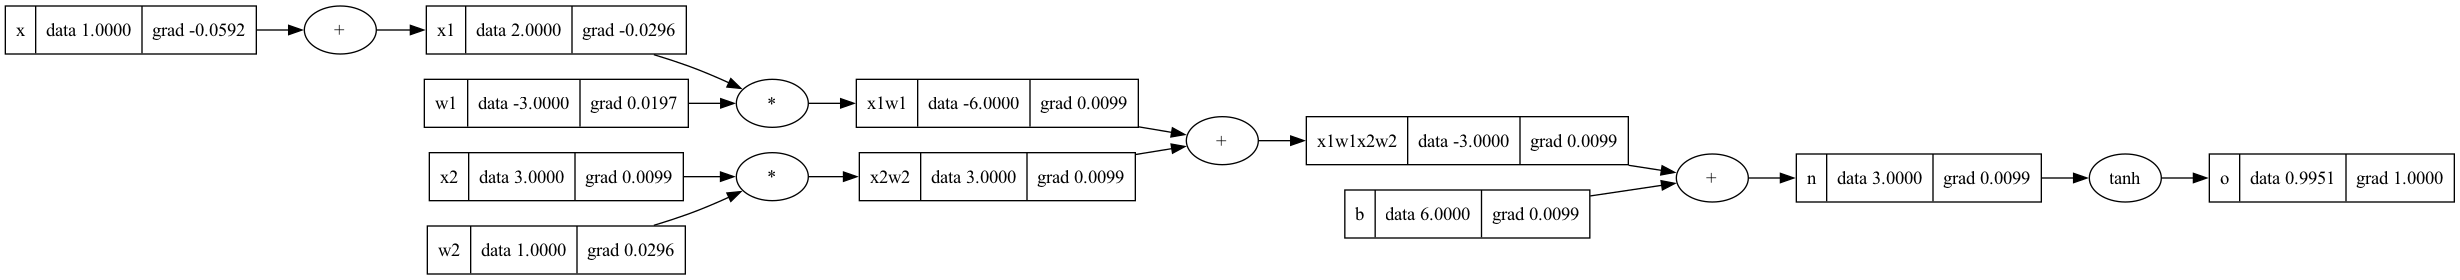
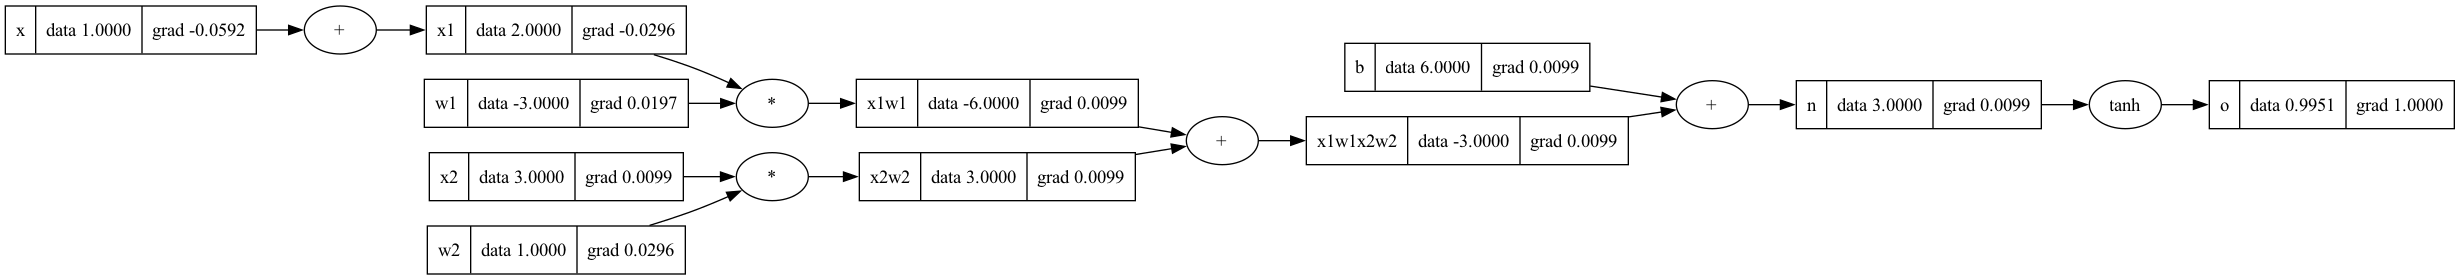
task 4.half done

diff --git a/hafta_2_backpropagation/micrograd_from_scratch.py b/hafta_2_backpropagation/micrograd_from_scratch.py
@@ -3,6 +3,7 @@ from threading import local
 import numpy as np
 import matplotlib.pyplot as plt
 from graphviz import Digraph
+from numpy._core import ubyte
 
 # for graph visualization stuff
 def trace(root):
@@ -43,9 +44,11 @@ class Value:
         self.label = label
 
     def __repr__(self) -> str:
-        return f"Value(data={self.data}, _op={self._op}, _prev={self._prev}, label={self.label})"
+        return f"Value(data={self.data})" ###, _op={self._op}, _prev={self._prev}, label={self.label})"
 
     def __add__(self, other):
+        # for addition to integer by value
+        other = other if isinstance(other, Value) else Value(other)
         out = Value(self.data + other.data, (self, other), '+', label='')
         def _backward():
             self.grad += out.grad * 1.0
@@ -54,6 +57,8 @@ class Value:
         return out
 
     def __mul__(self, other):
+        # for multiplication to integer by value
+        other = other if isinstance(other, Value) else Value(other)
         out = Value(self.data * other.data, (self, other), '*', label='')
         def _backward():
             self.grad += out.grad * other.data
@@ -61,16 +66,79 @@ class Value:
         out._backward = _backward
         return out
 
+    # reverse multiplication for error handling
+    def __rmul__(self, other):
+        return self * other
+
+
+    def __neg__(self):
+        return self * -1
+
+    def __sub__(self, other):
+        return self + (-other)
+
+    def __truediv__(self, other):
+        return self * other**-1
+
     def tanh(self):
         x = self.data
         t = (math.exp(2*x) - 1)/(math.exp(2*x) + 1)
         out = Value(t, (self,), 'tanh', label='')
         def _backward():
-            self.grad = out.grad * (1 - t**2)
+            self.grad += out.grad * (1 - t**2)
         out._backward = _backward
         return out
 
 
+    def exp(self):
+        out = Value(math.exp(self.data), (self,), 'exp', label='')
+        def _backward():
+            self.grad += out.grad * math.exp(self.data)
+        out._backward = _backward
+        return out
+
+    def __pow__(self, other):
+        out = Value(self.data ** other, (self,), f'**{other}', label='')
+        def _backward():
+            self.grad += out.grad * other * self.data ** (other - 1)
+        out._backward = _backward
+        return out
+
+    def __radd__(self, other):
+        return self + other
+
+    def __rtruediv__(self, other):
+        return other * self**-1
+
+
+    def backward(self):
+        topo = []
+        visited = set()
+
+        def build_topo(v):
+            if v not in visited:
+                visited.add(v)
+                for child in v._prev:
+                    build_topo(child)
+                topo.append(v)
+        build_topo(self)
+        self.grad = 1.0
+        for node in reversed(topo):
+            node._backward()
+
+    def zero_grad(self):
+        topo = []
+        visited = set()
+
+        def build_topo(v):
+            if v not in visited:
+                visited.add(v)
+                for child in v._prev:
+                    build_topo(child)
+                topo.append(v)
+        build_topo(self)
+        for node in reversed(topo):
+            node.grad = 0.0
 
 # .grad değerlerini hesaplamak için finite difference yöntemi
 def local_variable():
@@ -99,6 +167,13 @@ def local_variable():
     L2 = L.data
 
     print((L2 - L1)/h)
+    p = Value(2.0)
+    q = Value(3.0)
+    print(p * q)
+    print(p / q)
+    print(q / p)
+    print(p - 1)
+    print(q + 1)
     L.grad = 1.0
     f.grad = -2.0
     e.data = -7.0
@@ -121,21 +196,22 @@ def noron():
     x1w1 = x1 * w1; x1w1.label = 'x1w1'
     x2w2 = x2 * w2; x2w2.label = 'x2w2'
     x1w1x2w2 = x1w1 + x2w2; x1w1x2w2.label = 'x1w1x2w2'
-    n = x1w1x2w2 + b; n.label = 'n'
-    o = n.tanh(); o.label = 'o'
-    o.grad = 1.0
-    o._backward()
-    n._backward()
-    x1w1x2w2._backward()
-    x2w2._backward()
-    x1w1._backward()
-    b._backward()
-    w2._backward()
-    w1._backward()
-    x1._backward()
-    x2._backward()
-    draw_dot(o, filename='output/noron')
+    #n = x1w1x2w2 + b; n.label = 'n'
+    n = x1w1
+    # -----
+    e = (2*n).exp(); e.label = 'e'
+    o = (e - 1) / (e + 1) ; o.label = 'tanh'
+    o.backward()
+    draw_dot(o, filename='output/noron_tanh')
+    # ----
+    # we should reset the grads before backward
+    n.zero_grad()
+    s = 1 / (1 + (-1 * n).exp())
+    s.label = 's'
+    s.backward()
+    draw_dot(s, filename='output/noron_sigmoid')
 
 
 noron()
-print(draw_dot(local_variable()))
+# graph visualization for local_variable() function
+# print(draw_dot(local_variable()))
